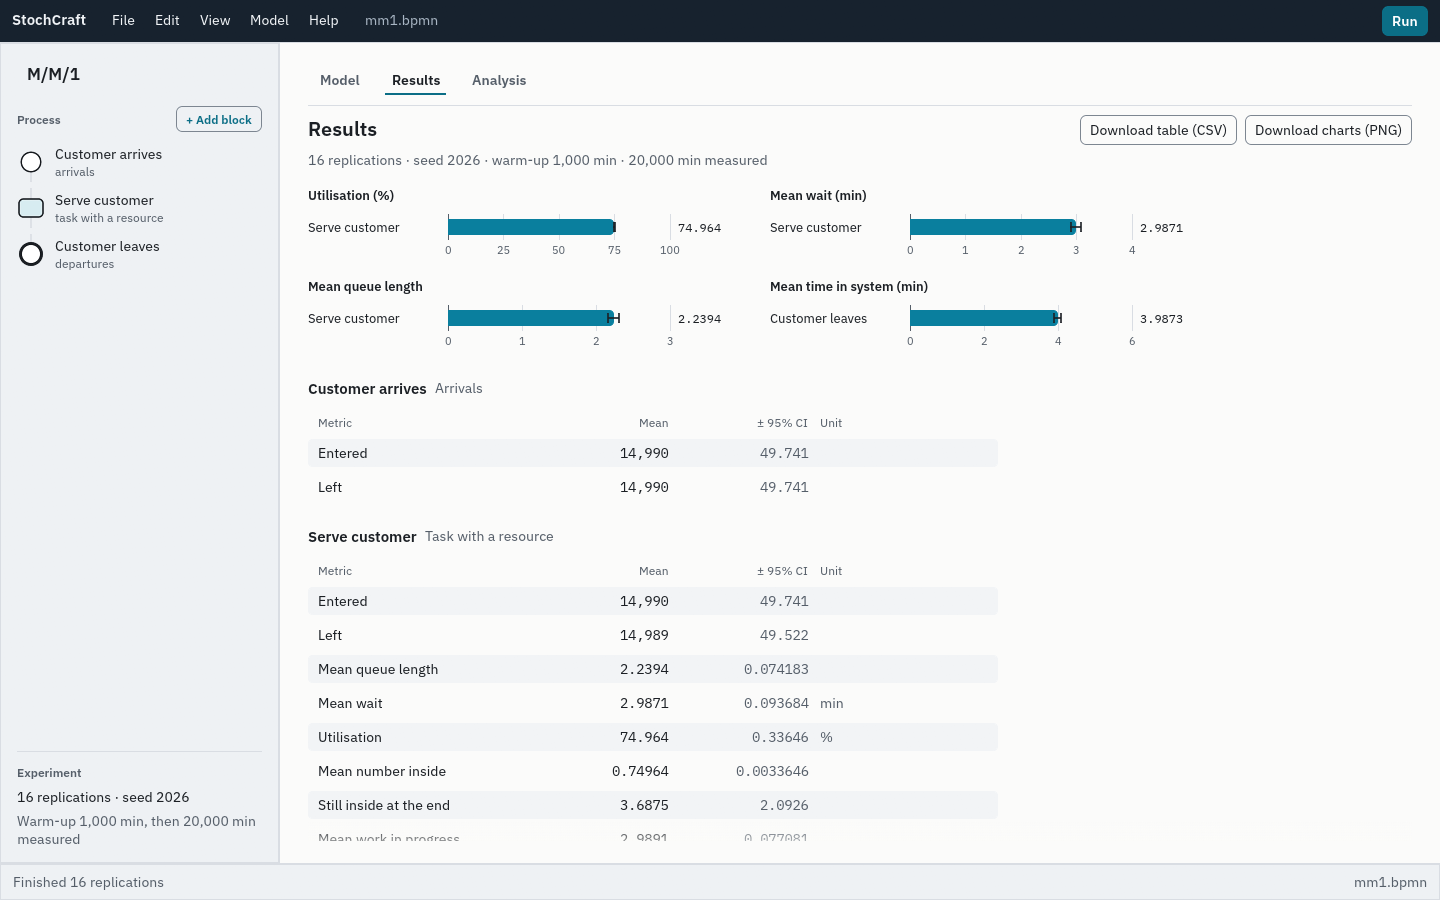
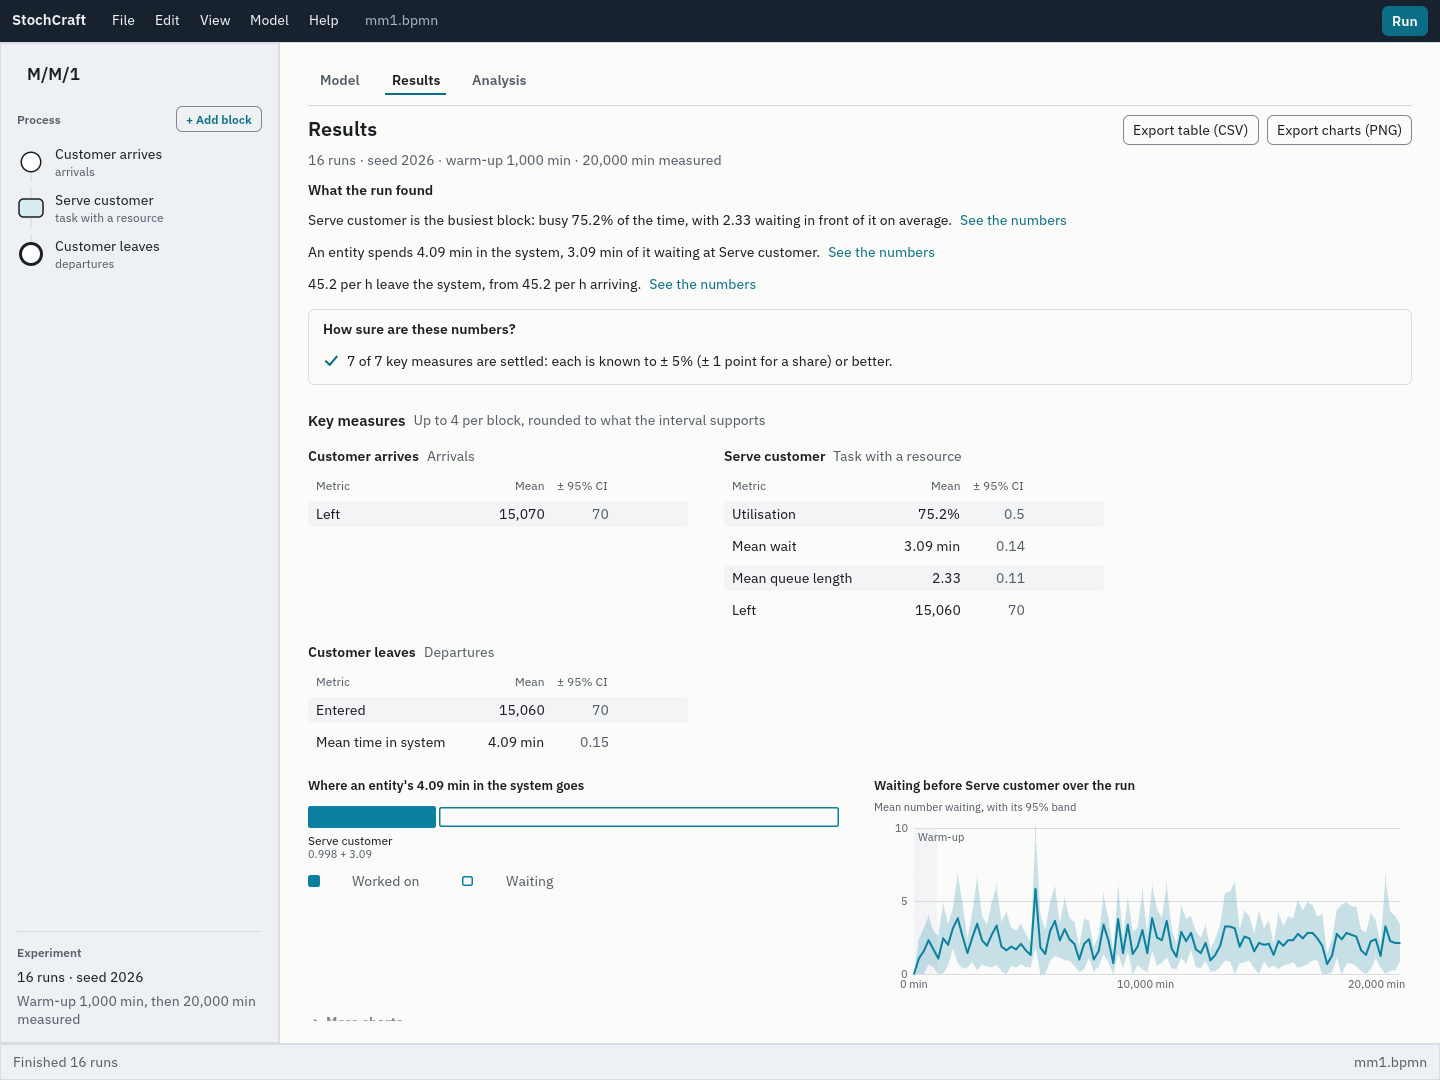
Results screenshot retaken from the M/M/1 example (desktop, 1440 x 1080): findings, how sure, key measures and the two charts; alt text to match

diff --git a/README.md b/README.md
@@ -29,7 +29,7 @@ downloadable release yet, so for now the desktop app is built from source.
 
 ## How it works
 
-| ![The start screen with three examples](docs/screenshots/start.png) | ![A model on the canvas with a block selected](docs/screenshots/model.png) | ![Results with charts and a table of means and 95% confidence intervals](docs/screenshots/results.png) |
+| ![The start screen with three examples](docs/screenshots/start.png) | ![A model on the canvas with a block selected](docs/screenshots/model.png) | ![Results: what the run found, how sure the numbers are, key measures and two charts](docs/screenshots/results.png) |
 | :---: | :---: | :---: |
 | **1. Open an example or a model file**, or start a new one | **2. Draw the flow** and set each step's times, capacity, breakdowns and shifts | **3. Run** and read each result with its 95% confidence interval |
 

diff --git a/docs/user-guide.md b/docs/user-guide.md
@@ -225,7 +225,7 @@ cleared.
 
 ## Read the results
 
-![Results: charts with confidence whiskers, then a table per block](screenshots/results.png)
+![Results: what the run found, how sure the numbers are, key measures per block, and two charts](screenshots/results.png)
 
 The **Results** tab shows, from the top:
 
